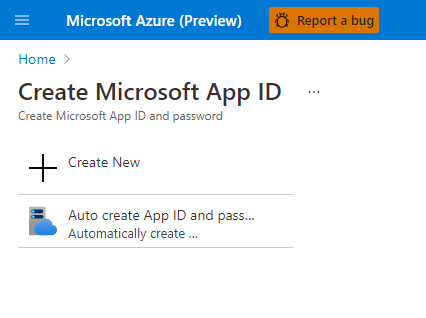
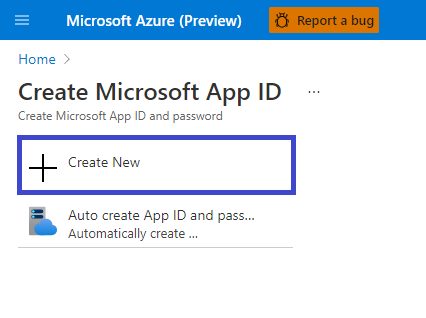
read me changes and added images

Changed region(s): [[0.0305, 0.4245, 0.7019, 0.6226]]

diff --git a/README.md b/README.md
@@ -74,49 +74,77 @@ User.Read.All | Read all users profile.
 
 ## Deployment Guide
 
+Deployment of the Water Cooler app will take approx. 90 minutes, assuming all pre-requisites are in place. 
+
+### Pre-requisites
+
+Please make sure you are ready with the following list:
+
+1. __Access to [ https://portal.azure.com]( https://portal.azure.com)__
+   1. You will need an active subscription with credit available
+   2. Note: You will need to create a new Resource Group and be able to deploy Azure Services into it
+2. __Access to Command Prompt (CMD) on a computer with Node.JS installed__
+   1. This is needed to deploy the app code
+   2. (Install Node.JS from here: [ https://nodejs.org/](https://nodejs.org/)
+3. __Access to run PowerShell on your local machine (as Administrator) connecting to a Microsoft Teams Tenant. This is needed to create the Policy allowing the Water Cooler app to make calls inside your tenant.__
+   1. When running the PowerShell your user account will need to have the Teams Administrator Role – or – be Global Administrator.
+   2. Learn more: [ Use Microsoft Teams administrator roles to manage Teams](https://docs.microsoft.com/en-us/MicrosoftTeams/using-admin-roles)
+4. __Permissions to submit/approve a Teams App for use in your tenant via the Teams Admin Centre__
+   1. This allows users to find and access the app
+
+### Deployment steps
 1. __Register Azure AD application__: Register an Azure AD application in your tenant's directory for Water Cooler app.
-    1. Log in to the Azure Portal for your subscription, and go to the App registrations blade.
+    1. Log in to the Azure Portal for your subscription, and go to the [App registrations](https://portal.azure.com/#blade/Microsoft_AAD_IAM/ActiveDirectoryMenuBlade/RegisteredApps) blade.
     2. Click __New registration__ to create an Azure AD application.
        1. __Name__: Name of your Teams App - if you are following the template for a default deployment, we 
           recommend "Water Cooler".
        2. __Supported account types__: Select "Accounts in any organizational directory" (refer to image 
           below).
-       3. Leave the "Redirect URI" field blank for now.
+       3. Leave the `"Redirect URI"` field blank for now.
 
           ![App Registration](Wiki/Images/appRegistration.png)
     3. Click __Register__ to complete the registration.
-    4. When the app is registered, you'll be taken to the app's "Overview" page. Copy the __Application 
-       (client) ID__; we will need it later. Verify that the "Supported account types" is set to __Multiple 
-       organizations.__
+    4. When the app is registered, you'll be taken to the app's "Overview" page.
+       1. Copy the __Application (client) ID__; we will need it later.
+       2. Verify that the "Supported account types" is set to __Multiple organizations.__
 
-       ![Client ID](Wiki/Images/clientId.png)
-    5. On the side rail in the Manage section, navigate to the "Certificates & secrets" section. In the 
-       Client secrets section, click on "+ New client secret". Add a description for the secret and choose 
-       when the secret will expire. Click "Add".
+          ![Client ID](Wiki/Images/clientId.png)
+    5. On the side rail in the Manage section, navigate to the "Certificates & secrets" section. 
+       1. In the Client secrets section, click on "+ New client secret".
+       2. Add a description for the secret and choose when the secret will expire.
+       3. Click "Add".
 
-       ![Client Secret](Wiki/Images/clientSecret.png)
+          ![Client Secret](Wiki/Images/clientSecret.png)
     6. Once the client secret is created, copy its __Value__; we will need it later. At this point you 
        should have the following 3 values. 
        1. Application (client) ID for the Water Cooler app.
        2. Client secret for the Water Cooler app.
-       3. Directory (tenant) ID.
+       3. Directory (tenant) ID. (Get from the app overview page or Azure AD) 
 
-          ![App Data](Wiki/Images/appData.png)
+       We recommend that you copy the values, we will need them later. 
+       ![App Data](Wiki/Images/appData.png)
+
 
 2. __Set-up Bot__
     1. Open bot channels registration.
     2. Fill appropriate details to create the bot.
+    3. Before you click 'create', at the bottom of the page Click on 'Microsoft App ID and Password' (we don't want to use auto create). 
+       1. On the next screen, click 'Create New'
+       2. Paste in the same Client ID and Secret you created in the step 1.
 
        ![Bot Registration](Wiki/Images/botRegistration.png)
-    3. Before you create, at the bottom of the page Click on 'Microsoft App ID and Password' (we don't want to use auto create). On the next screen, click 'Create New' and paste in the same Client ID and Secret you created in the step 1.
 
        ![Bit App ID](Wiki/Images/botAppId.png)
+
     4. Go to Channels from left tray.
 
        ![Channels](Wiki/Images/channels.png)
+
     5. Setup Microsoft Teams in channels
 
        ![Connect Channels](Wiki/Images/connectChannels.png)
+       
+       __Note__: We will come back to configure the Teams Channel you just enabled later on.
 
 3. __Deploy your Azure subscription__
     1. Click on the __Deploy to Azure__ button below.
@@ -126,20 +154,26 @@ User.Read.All | Read all users profile.
     3. Azure will create a "Custom deployment" based on the Water Cooler ARM template and ask you to fill 
        in the template parameters.
 
-       __Note__: Please ensure that you don't use underscore (_) or space in any of the field values 
-       otherwise the deployment may fail.
+       __IMPORTANT NOTE__: Please ensure that you **don't use underscore (_) or space** in any of the field values otherwise the deployment may fail.
     4. Select a subscription and a resource group.
        1. We recommend creating a new resource group.
-       2. The resource group location MUST be in a datacenter that supports all the following:
+       2. The resource group location __MUST__ be in a datacenter that supports all the following:
           1. Storage Accounts
           2. Application Insights
           3. App Service
           4. Azure Bot Services
-       For an up-to-date list of datacenters that support the above, click [here](https://azure.microsoft.com/en-us/global-infrastructure/services/?products=monitor,bot-services,storage,app-service)
-    5. Enter a __Base Resource Name__, which the template uses to generate names for the other resources.
-       1. The [Base Resource Name] must be available. For example, if you select contosoWaterCooler as the base name, the name contosoWaterCooler must be available (not taken); otherwise, the deployment will fail with a Conflict error. Base resource name should be lowercase. Base Resource name + storage account name must not exceed 24 characters.
-       2. Remember the base resource name that you selected. We will need it later.
-    6. Update the following fields in the template:
+
+            For an up-to-date list of datacenters that support the above, click [here](https://azure.microsoft.com/en-us/global-infrastructure/services/?products=monitor,bot-services,storage,app-service)
+
+            Note: You’re about to complete the template fields. The __Base Resource Name is important__ – as the template uses it to generate names for the other resources.
+ 
+       3. The [Base Resource Name] must be available. For example, if you select xwatercooler as the base name, the name xwatercooler must be available (not taken); otherwise, the deployment will fail with a Conflict error.
+       4. Base resource name should be lowercase.
+       5. We recommend keeping the Base Resource Name under 12 characters
+       6. Base `Resource name + storage account` name must not exceed 24 characters
+       7. Remember the base resource name that you selected. We will need it later
+
+    5. Update the following fields in the template:
        1. __Client ID__: The application (client) ID of the Microsoft Teams Water Cooler bot app. (from Step 1)
        2. __Client Secret__: The client secret of the Microsoft Teams Water Cooler bot app. (from Step 1)
        3. __Tenant Id__: The tenant ID. (from Step 1). Basically, it will take it from the logged in tenant.
@@ -153,59 +187,70 @@ User.Read.All | Read all users profile.
        8. __Storage Account Name__: you need to think of a short name here for the storage table, keep it under 12 characters and all lower-case.
        9. __Web API Url__: Think of a name for your backend app service (e.g. watercoolerwebapi) - write this down as you'll need it later.
        10. __Web UI Url__: Think of a name for your frontend app service (e.g. watercoolerwebui) - write this down as you'll need it later.
-       11. __SKU__: The app service plan. Basically the values are F1 (Free), D1 (Shared), B1, B2, B3 
-           (Basic), S1, S2, S3 (Standard plans), P1v2, P2v2, P3v2 (Premium V2 service plans), etc., You can 
-           check all the plans and its costs [here](https://azure.microsoft.com/en-us/pricing/details/app-service/windows/). e.g. S1.
+       11. __SKU__: The app service plan. Basically the values are `F1 (Free)`, `D1 (Shared)`, `B1`, `B2`, `B3` 
+           (Basic), `S1`, `S2`, `S3` (Standard plans), `P1v2`, `P2v2`, `P3v2` (Premium V2 service plans), etc., You can 
+           check all the plans and its costs [here](https://azure.microsoft.com/en-us/pricing/details/app-service/windows/). `e.g. S1`.
 
        __Note__: Make sure that the values are copied as-is, with no extra spaces. The template checks that GUIDs are exactly 36 
        characters.
 
        __Note__: If your Azure subscription is in a different tenant than the tenant where you want to install the Teams App, please 
        update the Tenant Id field with the tenant where you want to install the Teams App.
-    7. If you wish to change the app name, description, and icon from the defaults, modify the corresponding template parameters.
-    8. Agree to the Azure terms and conditions by clicking on the check box "I agree to the terms and conditions stated above" located at 
+    6. If you wish to change the app name, description, and icon from the defaults, modify the corresponding template parameters.
+    7. Agree to the Azure terms and conditions by clicking on the check box "I agree to the terms and conditions stated above" located at 
        the bottom of the page.
-    9. Click on "Agree & Create" to validate the template. It will validate the template and will provide create button if everything is 
+    8. Click on "Agree & Create" to validate the template. It will validate the template and will provide create button if everything is 
        good. Click on Create to start the deployment.
-    10. Wait for the deployment to finish. You can check the progress of the deployment from the "Notifications" pane of the Azure Portal. It may take __up to an hour__ for the deployment to finish.
-    11. Get the URL value from the Web API App Service that is provisioned. Copy that value to clipboard for use next (and later).
-        1. Go to: Home -> Bot Services -> Your Bot -> Channels -> Microsoft Teams (edit) -> Calling tab -> Tick ‘Enable Calling’ -> create Webhook like example here: __https://yourwebapiurl.azurewebsites.net/callback/calling__
+    9. Wait for the deployment to finish. You can check the progress of the deployment from the "Notifications" pane of the Azure Portal. It may take __up to an hour__ for the deployment to finish.
+    10. Once successfully deployed, get the URL value from the Web API App Service that has been provisioned. Copy that value to clipboard for use next (and later).  
+        1. Go to: Home -> Bot Services -> Your Bot -> Channels -> Microsoft Teams (edit) -> Calling tab -> Tick ‘Enable Calling’ -> create Webhook like example here: `https://yourwebapiurl.azurewebsites.net/callback/calling`
         2. Click Save
 
            ![Bot Calling](Wiki/Images/botCalling.png)
+   
 
 4. __Create UI App service for client App__
     1. Go to app services from homepage
-    2. Click on create, the below interface will appear. Fill the appropriate details and create. Name = webui URL from 
-       App Service (Step 3). E.g. watercoolerwebui (no https), Runtime stack = .Net 3.1
+    2. Click on create, the below interface will appear. Fill the appropriate details and create.
+    3. Name = webui URL from 
+       App Service (Step 3). E.g. `watercoolerwebui` (no https)
+    4. Runtime stack = `.Net 3.1`
 
        ![UI App service](Wiki/Images/uiAppService.png)
-    3. After creating UI App service go to App service overview page.
-    4. Copy UI App service URL and save to clipboard.
-    5. Then edit the URL as shown below (you need to add ‘scm’ into the URL as shown. 
-       e.g. https://%uiAppservicename%.scm.azurewebsites.net
+    5. After creating UI App service go to App service overview page.
+    6. Copy UI App service URL and save to clipboard.
+    7. __TIP__: Make sure this is the __UI App service__ (not the API App Service!) 
+    8. Then edit the URL as shown below (you need to add ‘scm’ into the URL as shown. 
+       e.g. `https://%uiAppservicename%.scm.azurewebsites.net`)
 
-    6. Open this URL in browser and go to Tools > ZIP push deploy
+    9. Open this URL in browser and go to Tools > ZIP push deploy
 
        ![Zip Deploy](Wiki/Images/zipDeploy.png)
-    7. Make sure you have cloned or Downloaded the repository. (You can do this from the Git repository and download the .Zip file).
-    8. Extract the contents to your local machine.
-    9. Open cmd, go to the waterCoolerClientApp directory.
-    10. Open file explorer and open SRC/environment/development.ts file in any editor and replace the URL for the webapi URL (you should have this in your clipboard, if not go to Azure -> App Services -> Find your API service -> copy the URL).
-    11. Save development.ts
-    12. Now we're going to Build the UI app.
-    13. Start by going back to the Command Prompt (CMD) window you opened earlier (you need to be int he waterCoolerClientApp director).
-    14. Run the command as below (If this doesn’t work – you’ll need to install Node.JS).
+    10. Make sure you have cloned or Downloaded the repository. (You can do this from the Git repository and download the .Zip file).
+
+        ![Git Download](Wiki/Images/gitDownload.png)
+
+    11. Extract the contents to your local machine.
+    12. Open CMD, go to the waterCoolerClientApp directory.
+    13. Open file explorer and go to the extracted location -> and open SRC/environment/development.ts file in any editor and replace the URL for the webapi URL (you should have this in your clipboard, if not go to Azure -> App Services -> Find your API service -> copy the URL).
+    14. Save development.ts
+
+   #### Bulding the UI App ready for deployment
+
+    15. Go back to CMD you have open (you need to be in the waterCoolerClientApp directory)
+    16. Run npm install command (If this doesn’t work – you’ll need to install Node.JS)
         ```python
         npm install
-    15. Write the command as below
+    17. Run npm run-script build
         ```python
         npm run-script build
-    16. Go to the ‘build’ folder and Zip the entire contents and upload in the window opened in step 5.
-    17. Tip: You upload by dragging the .zip package onto the browser window:
+        
+    18. Go to the __‘build’__ folder and Zip the entire contents and upload in the window opened in step 5.
+    19. __TIP__: Don’t .Zip the actual Build folder – only the contents! 
+    20. __Tip__: You upload by dragging the .zip package onto the browser window:
 
         ![Drop to deploy](Wiki/Images/dropDeploy.png)
-    18. You can check this has worked by going to: https://%webuiurl% and you should see the Loading screen (it will stay like this)
+    21. You can check this has worked by going to: `https://%webuiurl%` and you should see the Loading screen (it will stay like this)
 
         ![App loader](Wiki/Images/appLoader.png)
 
@@ -214,27 +259,27 @@ User.Read.All | Read all users profile.
    2. Under __Manage__, click on __Authentication__ to bring up authentication settings.
       1. Add a new entry to __Redirect URIs__:
          1. __Type__: Web
-         2. __Redirect URI__: Enter  https://%clientAppServiceUrl%/auth-end for the URL e.g. https://yourappdomain.net/auth-end (client app service)
+         2. __Redirect URI__: Enter  `https://%clientAppServiceUrl%/`auth-end for the URL e.g. `https://yourappdomain.net/auth-end` (client app service)
          3. You can find this URL by: Azure -> App Services -> your Web UI App Service -> copy URL
          4. This is NOT your webAPI url.
       2. Under __Implicit grant__, check __ID tokens__.
       3. Click __Configure__ to commit your changes.
    3. Back under __Manage__, click on __Expose an API__.
-      1. Click on the __Set__ link next to __Application ID URI__, and change the value to api://%clientAppServiceURL%/clientId, this is the same URL you used in the previous step (but with api not https) see below: 
-e.g. api://youappwebuiurl.azurewebsites.net/clientId.
+      1. Click on the __Set__ link next to __Application ID URI__, and change the value to `api://%clientAppServiceURL%/clientId`, this is the same URL you used in the previous step (but with api not https) see below: 
+e.g. `api://youappwebuiurl.azurewebsites.net/clientId`.
 
       2. Click __Save__ to commit your changes.
       3. Click on __Add a scope__, under __Scopes defined by this API__. In the flyout that appears, enter the following values:
-         1. __Scope name__:  access_as_user
+         1. __Scope name__:  `access_as_user`
          2. __Who can consent?__:  Admins and users
          3. __Admin and user consent display name__:  Access the API as the current logged-in user
          4. __Admin and user consent description__:  Access the API as the current logged-in user
       4. Click Add scope to commit your changes.
       5. Click __Add a client application__, under __Authorized client applications__. In the flyout that appears, enter the following values:
-         1. __Client ID__: 5e3ce6c0-2b1f-4285-8d4b-75ee78787346 (<- Has to be this)
-         2. __Authorized scopes__: Select the scope that ends with access_as_user. (There should only be 1 scope in this list.)
+         1. __Client ID__: `5e3ce6c0-2b1f-4285-8d4b-75ee78787346` (<- Has to be this)
+         2. __Authorized scopes__: Select the scope that ends with `access_as_user`. (There should only be 1 scope in this list.)
       6. Click __Add application__ to commit your changes.
-      7. __Repeat the previous two steps__, but with client ID = 1fec8e78-bce4-4aaf-ab1b-5451cc387264. After this step you should have __two__ client applications (5e3ce6c0-2b1f-4285-8d4b-75ee78787346 and 1fec8e78-bce4-4aaf-ab1b-5451cc387264) listed under __Authorized client applications__.
+      7. __Repeat the previous two steps__, but with client ID = `1fec8e78-bce4-4aaf-ab1b-5451cc387264`. After this step you should have __two__ client applications (`5e3ce6c0-2b1f-4285-8d4b-75ee78787346` and `1fec8e78-bce4-4aaf-ab1b-5451cc387264`) listed under __Authorized client applications__.
 
 6. __Add Permissions to your App__
 
@@ -262,56 +307,60 @@ e.g. api://youappwebuiurl.azurewebsites.net/clientId.
       4. Click on __Add Permissions__ to commit your changes.
 
          ![Permissions](Wiki/Images/permissions.png)
-   4. You should have 14 Configured Permissions in total. If not, you’ve missed some!
+   4. You should have __14 Configured Permissions__ in total. If not, you’ve missed some!
    5. If you are logged in as the Global Administrator, click on the “Grant admin consent for %tenant-name%” button to grant admin consent, else inform your Admin to do the same through the portal.
 Alternatively you may follow the steps below:
-         1. Prepare link - https://login.microsoftonline.com/common/adminconsent?client_id=%appId%. Replace the %appId% with the Application (client) ID of Microsoft Teams Water Cooler bot app (from above).
+         1. Prepare link - `https://login.microsoftonline.com/common/adminconsent?client_id=%appId%`. Replace the `%appId%` with the Application (client) ID of Microsoft Teams Water Cooler bot app (from above).
          2. Global Administrator can grant consent using the link above.
 
 
 
 
 7. __Give policy access to admin user__
-   1. Open powershell as system administrator
+   
+   In this step we need to connect as a Teams Administrator (or Global Administrator) to your tenant using PowerShell, and create an Application Access Policy so the user account the Water Cooler runs under can work with Teams properly.
+   1. Open PowerShell as system administrator
    2. Write below commands to run and provide appropriate details
       1. Import-Module MicrosoftTeams
-      2. $userCredential = Get-Credential
-      3. Connect-MicrosoftTeams -Credential $userCredential
-      4. New-CsApplicationAccessPolicy -Identity OnlineMeeting-WaterCooler -AppIds "%clientId%" -Description "Water cooler app - Online meeting policy for admin -Tenant"
-      5. Grant-CsApplicationAccessPolicy -PolicyName OnlineMeeting-WaterCooler -Identity "%adminUserId%"
+      2. `$userCredential` = Get-Credential
+      3. Connect-MicrosoftTeams -Credential `$userCredential`
+      4. New-CsApplicationAccessPolicy -Identity OnlineMeeting-WaterCooler -AppIds `%clientId%` -Description "Water cooler app - Online meeting policy for admin -Tenant"
+      5. Grant-CsApplicationAccessPolicy -PolicyName OnlineMeeting-WaterCooler -Identity `%adminUserId%`
 
 8. __Create the Teams app package__
    
-   Create Teams app packages: To be installed to teams.
+   Now everything is deployed in Azure, we need to package up the Teams App and add it into Teams!
+
    1. Make sure you have cloned the app repository locally.
    2. Open the  Manifest\manifest.json file in a text editor.
    3. Change the placeholder fields in the manifest to values appropriate for your organization in developer property.
-      1. MenifestVersion = 1.5
-      2. Version = 1.0.0
+      1. MenifestVersion = `1.5`
+      2. Version = `1.0.0`
       3. developer.name
       4. developer.websiteUrl
       5. developer.privacyUrl
       6. developer.termsOfUseUrl [Note: These 3 URLs should be different]
    4. Change the placeholder fields in the manifest to values appropriate to app name property
-      1. short: “Water Cooler”,
-      2. Full: “Water Cooler”
+      1. short: “`Water Cooler`”,
+      2. Full: “`Water Cooler`”
       3. Description.short = Must be less than 80 characters in length
    5. Change the placeholder fields in the manifest as an example below:
-      1. "entityId": "waterCooler",
-      2. "name": "Water Cooler",
-      3. "contentUrl": https://yourwebui.azurewebsites.net/,
-      4. "websiteUrl": "https://yourwebui.azurewebsites.net/",
-   6. Change the <<clientId>> placeholder in the id setting of the webApplicationInfo section to be the %clientId% value. Change the <<appDomain>> placeholder in the resource setting of the webApplicationInfo section to be the %appDomain% value e.g. "api://appname.azurewebsites.net/clientId".
+      1. "entityId": "`waterCooler`",
+      2. "name": "`Water Cooler`",
+      3. "contentUrl": `https://yourwebui.azurewebsites.net/`,
+      4. "websiteUrl": `"https://yourwebui.azurewebsites.net/`",
+   6. Change the `<<clientId>>` placeholder in the id setting of the webApplicationInfo section to be the `%clientId%` value. Change the `<<appDomain>>` placeholder in the resource setting of the webApplicationInfo section to be the `%appDomain%` value e.g. `api://appname.azurewebsites.net/clientId`.
    7. Create a ZIP package with the  manifest.json, color.png, and outline.png. The two image files are the icons for your app in Teams.
-      1. Name this package  manifest.zip, so you know that this is the app for the Water Cooler.
+      1. Name this package  `manifest.zip`, so you know that this is the app for the Water Cooler.
       2. Make sure that the 3 files are the top level of the ZIP package, with no nested folders.
 
          ![Manifest](Wiki/Images/manifest.png)
 
 9. __Install app in Microsoft Teams__
 
-   1. Install the Water Cooler app (the  manifest.zip package) with the tenant scope
-   2. Install the app (the manifest.zip package) to the users and teams that will be the target audience.
+   1. Install the Water Cooler app (the  manifest.zip package)
+      1. You can do this through the Teams Admin Centre -> Teams Apps -> Manage Apps -> Upload -> Select a File -> Choose Manifest.zip you just created
+      2. If your tenant has sideloading apps enabled, you can install your app by following the instructions [here](https://docs.microsoft.com/en-us/microsoftteams/platform/concepts/apps/apps-upload#load-your-package-into-teams).
 
 10. __Upload room icons to blob storage__
     1. Open the created storage in the Resource group.
